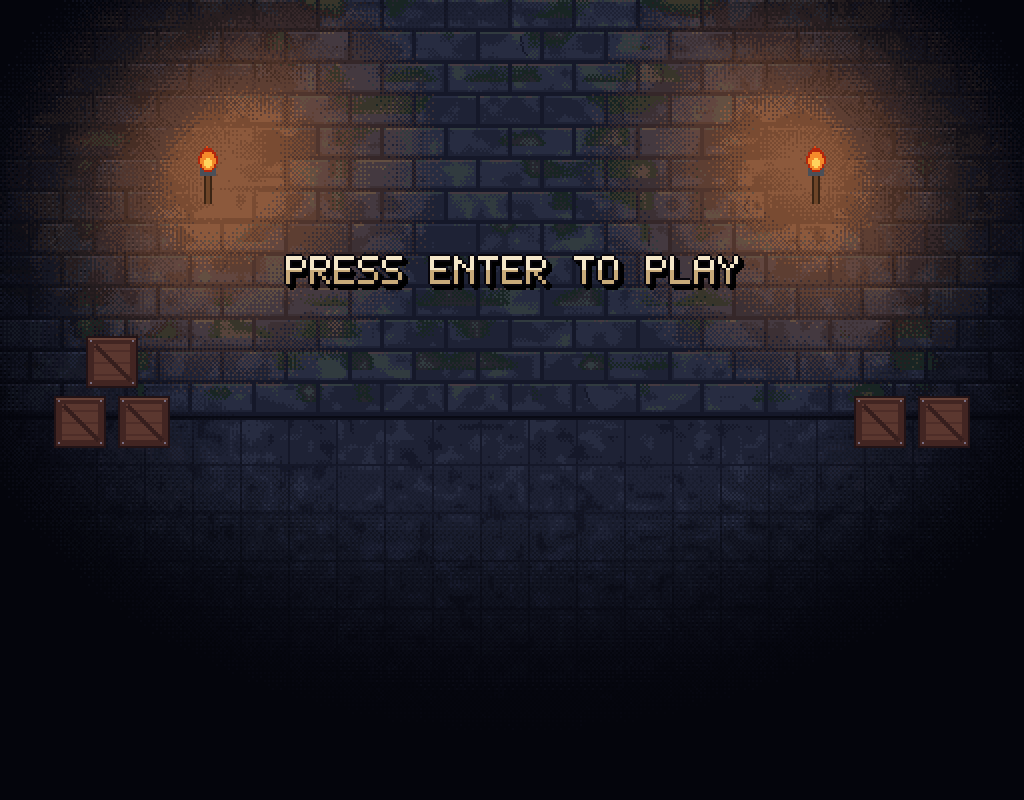
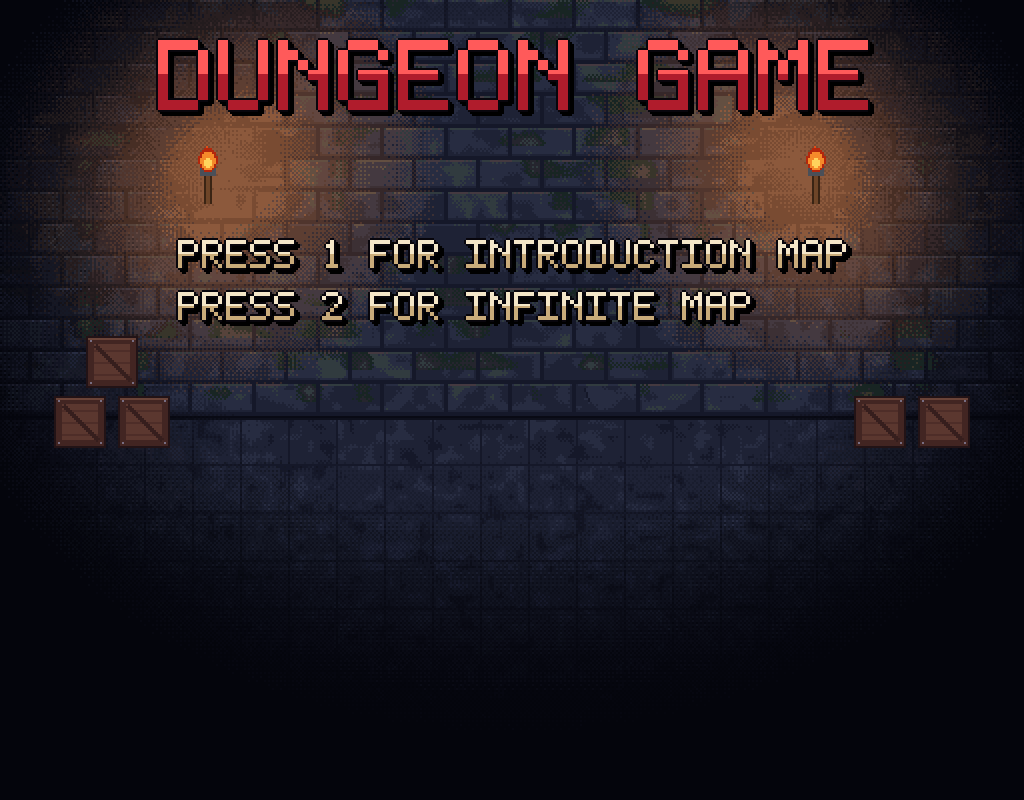
final project code

Changed region(s): [[0.1562, 0.2812, 0.8438, 0.4062], [0.125, 0.0312, 0.5625, 0.1562], [0.5938, 0.0312, 0.875, 0.1562]]

diff --git a/GamesEngineering2DGame/TileMap.hpp b/GamesEngineering2DGame/TileMap.hpp
@@ -38,6 +38,7 @@ public:
 
     bool load(const std::string& filename)
     {
+        infinite_ = false;
         std::ifstream infile(filename);
         if (!infile.is_open())
         {
@@ -72,7 +73,60 @@ public:
 
     }
     // converts the 2d array tile map position to the 1d array position 
-    int tileAt(int col, int row) const { return tiles_[row * width_ + col]; }
+    int tileAt(int column, int row) const 
+    {
+        if (infinite_)
+        {
+            // for infinite map, the column and row are wrapped back to the grid first
+         
+            column = ((column % width_) + width_) % width_;
+            row = ((row % height_) + height_) % height_;
+        }
+        return tiles_[row * width_ + column];
+    }
+
+    void generateInfiniteWorld(int width, int height, std::mt19937& gen)
+    {
+        infinite_ = true;
+        delete[] tiles_;
+        width_ = width;
+        height_ = height;
+        tiles_ = new int [width_ * height_];
+
+        std::uniform_int_distribution<int> distribution(0, 99);
+        for (int row = 0; row < height_; row++)
+        {
+            for (int column = 0; column < width_; column++)
+            {
+                int i = row * width_ + column;
+                tiles_[i] = 0;    // ground by default
+
+                // walls only every 4th column and row, so gaps are always 3 tiles (96 px) wide
+                if (column % 4 == 0 && row % 4 == 0 && distribution(gen) < 50)
+                {
+                    tiles_[i] = 3;    // wall
+                }
+            }
+        }
+
+        //player pos is at  300, 400 which is column 9, row 12
+        // we want to clear area around the player's start
+        //clear 4 tiles from every direction
+        
+        for (int row = 8; row <= 16; row++)
+        {
+            for (int column = 5; column <= 13; column++)
+            {
+                tiles_[row * width_ + column] = 0;
+            }
+        }
+
+    }
+
+    bool isInfiniteWorld() const 
+    {
+        return infinite_;
+    }
 
     // gets the width and height pixels of the tile map
     int widthPixels()  const { return width_ * TILE_SIZE; }
@@ -82,7 +136,7 @@ public:
     // check if the position is passable
     bool isSolidTile(int col, int row)
     {
-        if (col < 0 || row < 0 || col >= width_ || row >= height_)
+        if (!infinite_ && (col < 0 || row < 0 || col >= width_ || row >= height_))
         {
             return true;
         }
@@ -93,21 +147,31 @@ public:
     //int w and h are size of the character image
     bool isAreaBlocked(int x, int y, int w, int h)
     {
+
+        if (infinite_)
+        {
+           //take the box's top left corner and wrap it back inside the generated grid
+           //so that x and y always end up between 0 and 3199 
+            x = ( (x %  widthPixels() ) + widthPixels()) % widthPixels();
+            y = ((y % heightPixels()) + heightPixels()) % heightPixels();
+
+        }
         // anything outside the world is blocked
-        if (x < 0 || y < 0 || x + w > widthPixels() || y + h > heightPixels())
+        else if (x < 0 || y < 0 || x + w > widthPixels() || y + h > heightPixels())
         {
             return true;
         }
         int firstCol = x / TILE_SIZE;
-        int lastCol = (x + w - 1) / TILE_SIZE;
         int firstRow = y / TILE_SIZE;
+
+        int lastCol = (x + w - 1) / TILE_SIZE;
         int lastRow = (y + h - 1) / TILE_SIZE;
 
-        for (int r = firstRow; r <= lastRow; r++)
+        for (int row = firstRow; row <= lastRow; row++)
         {
-            for (int c = firstCol; c <= lastCol; c++)
+            for (int column = firstCol; column <= lastCol; column++)
             {
-                if (isSolidTile(c, r)) return true;
+                if (isSolidTile(column, row)) return true;
             }
         }
 
@@ -150,22 +214,50 @@ public:
     // camX,camY are the position of the camera. follows top left corner of the player 
     void draw(GamesEngineeringBase::Window& canvas, int camX, int camY)
     {
+        if (infinite_)
+        {
+            camX = ( (camX % widthPixels()) + widthPixels() ) % widthPixels();
+            camY = ( (camY % heightPixels()) + heightPixels() ) % heightPixels();
+        }
+
         int firstCol = camX / TILE_SIZE;
         int firstRow = camY / TILE_SIZE;
 
         int lastCol = (camX + (int)canvas.getWidth() - 1) / TILE_SIZE;
         int lastRow = (camY + (int)canvas.getHeight() - 1) / TILE_SIZE;
 
-        if (firstCol < 0) firstCol = 0;
-        if (firstRow < 0) firstRow = 0;
-        if (lastCol >= width_)  lastCol = width_ - 1;
-        if (lastRow >= height_) lastRow = height_ - 1;
 
-        for (int r = firstRow; r <= lastRow; r++)
-            for (int c = firstCol; c <= lastCol; c++)
+        //for fixed map: dont go past the edges
+        if (!infinite_)
+        {
+            if (firstCol < 0)
+            {
+                firstCol = 0;
+            }
+            if (firstRow < 0)
+            {
+                firstRow = 0;
+            }
+            if (lastCol >= width_)
+            {
+                lastCol = width_ - 1;
+            }
+            if (lastRow >= height_)
+            {
+                lastRow = height_ - 1;
+            }
+        }
+        //draw both maps
+        for (int row = firstRow; row <= lastRow; row++)
+        {
+            for (int column = firstCol; column <= lastCol; column++)
+            {
                 Renderer_draw_image(canvas,
-                    { (float)(c * TILE_SIZE - camX), (float)(r * TILE_SIZE - camY) },
-                    images_[tileAt(c, r)]);
+                    { (float)(column * TILE_SIZE - camX), (float)(row * TILE_SIZE - camY) },
+                    images_[tileAt(column, row)]);
+            }
+        }
+
     }
 
 
@@ -174,7 +266,7 @@ private:
 	GamesEngineeringBase::Image images_[NUM_TILE_TYPES]; // stores the  number of different type of tiles
 	int* tiles_;
 	int width_, height_;  // size= of the tile map
-
+    bool infinite_ = false;
 
     
     // states which of the tile id is passable/ block movement

diff --git a/GamesEngineering2DGame/dungeonGame.cpp b/GamesEngineering2DGame/dungeonGame.cpp
@@ -31,7 +31,7 @@ int main() {
 
     // Load the map ONCE, before the loop
     TileMap map;
-    if (!map.loadImages() || !map.load("Resources/level1.txt") || !AttributeBar::LoadImages())
+    if (!map.loadImages()|| !AttributeBar::LoadImages())
     {
         std::cout << "failed to load resources\n";
         
@@ -121,13 +121,24 @@ int main() {
         {
             Renderer_draw_image(canvas, { 0.0f, 0.0f }, mainMenuImage);
 
-            if (canvas.keyPressed(VK_RETURN))
+            if (canvas.keyPressed('1'))
             {
+                map.load("Resources/level1.txt");
                 delete manager;
                 manager = new Manager(canvas, map, gen, playerImage, enemyImage, enemy_projectileImage, potionHealthImage, potionManaImage,keyImage);
                 timer.dt();
                 state = GAME_STATE::PLAYING_GAME;
             }
+            else if (canvas.keyPressed('2'))
+            {
+                map.generateInfiniteWorld(100, 100, gen);  // infinite map
+                delete manager;
+                manager = new Manager(canvas, map, gen, playerImage, enemyImage, enemy_projectileImage, potionHealthImage, potionManaImage, keyImage);
+                timer.dt();
+                state = GAME_STATE::PLAYING_GAME;
+            }
+
+
         }
 
 
@@ -239,13 +250,7 @@ int main() {
 
             if (!manager->player_.IsAlive())
             {
-                std::cout << "Score: " << manager->stats_.score
-                    << "  Kills: " << manager->stats_.kills
-                    << "  Shots: " << manager->stats_.shotsFired
-                    << "  Taken: " << manager->stats_.shotsTaken
-                    << "  Damage: " << manager->stats_.damageTaken
-                    << "  Potions: " << manager->stats_.healthPotionsUsed
-                    << "  Time: " << manager->stats_.timeSurvived << "s\n";
+                manager->stats_.Print();
                 state = GAME_STATE::GAME_OVER;
             }
 

diff --git a/GamesEngineering2DGame/Manager.hpp b/GamesEngineering2DGame/Manager.hpp
@@ -10,14 +10,16 @@
 #include "Camera.hpp"
 #include "Projectile.hpp"
 
-
+//Manager class handles everything that related to one play through
+//when game starts, main creates manager object and set up constructors
+//links player and enmemy to shared stats, spawns the starting enemies
 
 class Manager
 {
 public:
 
 	static const int MAX_PICKUPS = 20; // maximum potions slots for each game
-	static const int HEAL_AMOUNT = 8; // how much the health potion heals the player
+	static const int HEAL_AMOUNT = 5; // how much the health potion heals the player
 	static const int MANA_AMOUNT = 15;
 	
 	static const int HEAL_POTION_CHANCE = 20; //20 percent chance of heal potion to drop when enemy is killed
@@ -37,12 +39,15 @@ public:
 		, healthPotionImage_(&healthPotionImage)
 		, manaPotionImage_(&manaPotionImage)
 	{
+		camera_.SetBounded(!map.isInfiniteWorld());
 		player_.SetObstacles(enemies_.GetObstacles(), enemies_.GetMaxEnemies());	
 		enemies_.SpawnRandom(10, gen);
 
-		pickups_[4].Place({ 1900.0f, 300.0f }, &keyImage, ItemType::Key, 0);
-		
 
+		if (!map.isInfiniteWorld())
+		{
+			pickups_[4].Place({ 1900.0f, 300.0f }, &keyImage, ItemType::Key, 0);
+		}
 	}
 	void SpawnPotion(ItemType type, const Vec2f& centre)
 	{

diff --git a/GamesEngineering2DGame/Enemy.hpp b/GamesEngineering2DGame/Enemy.hpp
@@ -201,6 +201,7 @@ public:
 		}
 		for (int i = 0; i < MAX_ENEMIES; i++)
 		{
+			//does the following when enemy is dead 
 			if (enemies_[i] != nullptr && !enemies_[i]->IsAlive())
 			{
 				stats_->kills++;
@@ -226,6 +227,7 @@ public:
 		{
 			if (enemies_[i] == nullptr) continue;
 
+			// kills the enemy. enemy dealt their health amount of damage
 			enemies_[i]->TakeDamage(enemies_[i]->GetHealth());
 			count++;
 			if (count == num)
@@ -259,8 +261,8 @@ public:
 private:
 
 
-	EnemyEntity* enemies_[MAX_ENEMIES] = {};
-	SpriteEntity* obstacles_[MAX_ENEMIES] = {};
+	EnemyEntity* enemies_[MAX_ENEMIES] = {}; // set it to null ptr
+	SpriteEntity* obstacles_[MAX_ENEMIES] = {}; // player shouldnt be able to walk through enemies. checks for overlapping 
 
 	TileMap* map_;
 	const GamesEngineeringBase::Image* image_; // enemy image
@@ -276,7 +278,7 @@ private:
 	float minSpawnDistance_ = 600.0f; // never spawn this close to the player
 
 	GameStatistics* stats_;
-	int enemyKilledScore_ = 50;
+	int enemyKilledScore_ = 50;  // 50 points for each enemy kill
 
 	Vec2f num_enemies_deaths_[MAX_ENEMIES];
 	int deathCount_ = 0;

diff --git a/GamesEngineering2DGame/GameStatistics.hpp b/GamesEngineering2DGame/GameStatistics.hpp
@@ -9,4 +9,18 @@ struct GameStatistics
     int healthPotionsUsed = 0;
     int manaPotionsUsed = 0;
     float timeSurvived = 0.0f;
+    
+
+    void Print() const
+    {
+        std::cout << "Score:               " << score << "\n";
+        std::cout << "Kills:               " << kills << "\n";
+        std::cout << "Shots fired:         " << shotsFired << "\n";
+        std::cout << "Shots taken:         " << shotsTaken << "\n";
+        std::cout << "Damage taken:        " << damageTaken << "\n";
+        std::cout << "Health potions used: " << healthPotionsUsed << "\n";
+        std::cout << "Mana potions used:   " << manaPotionsUsed << "\n";
+        std::cout << "Time survived:       " << timeSurvived << "\n";
+
+    }
 };

diff --git a/GamesEngineering2DGame/Camera.hpp b/GamesEngineering2DGame/Camera.hpp
@@ -18,7 +18,10 @@ public:
 	{
 		camX = target.x_ - (screenW / 2);
 		camY = target.y_ - (screenH / 2);
-
+		if (!bounded_)
+		{
+			return;
+		}
 		if (camX < 0)
 		{
 			camX = 0;
@@ -41,6 +44,10 @@ public:
 		return { worldPos.x_ - static_cast<float>(camX),
 				 worldPos.y_ - static_cast<float>(camY) };
 	}
+	void SetBounded(bool bounded)
+	{
+		bounded_ = bounded;
+	}
 
 	int getX() const 
 	{
@@ -56,4 +63,5 @@ private:
 	int camX, camY;  // world position of the camera top left corner
 	int screenW, screenH;  // screen coordinates of the 
 	int worldW, worldH;  // size of the world 
+	bool bounded_ = true;
 };

diff --git a/GamesEngineering2DGame/Player.hpp b/GamesEngineering2DGame/Player.hpp
@@ -9,7 +9,7 @@
 #include "GameStatistics.hpp"
 
 
-const int MAX_HEALTH = 10;
+const int MAX_HEALTH = 15;
 const int MAX_MANA = 20;
 const int MANA_KILLS = 3; //kills 3 enemies when activate mana
 const int MANA_COST = 10;
